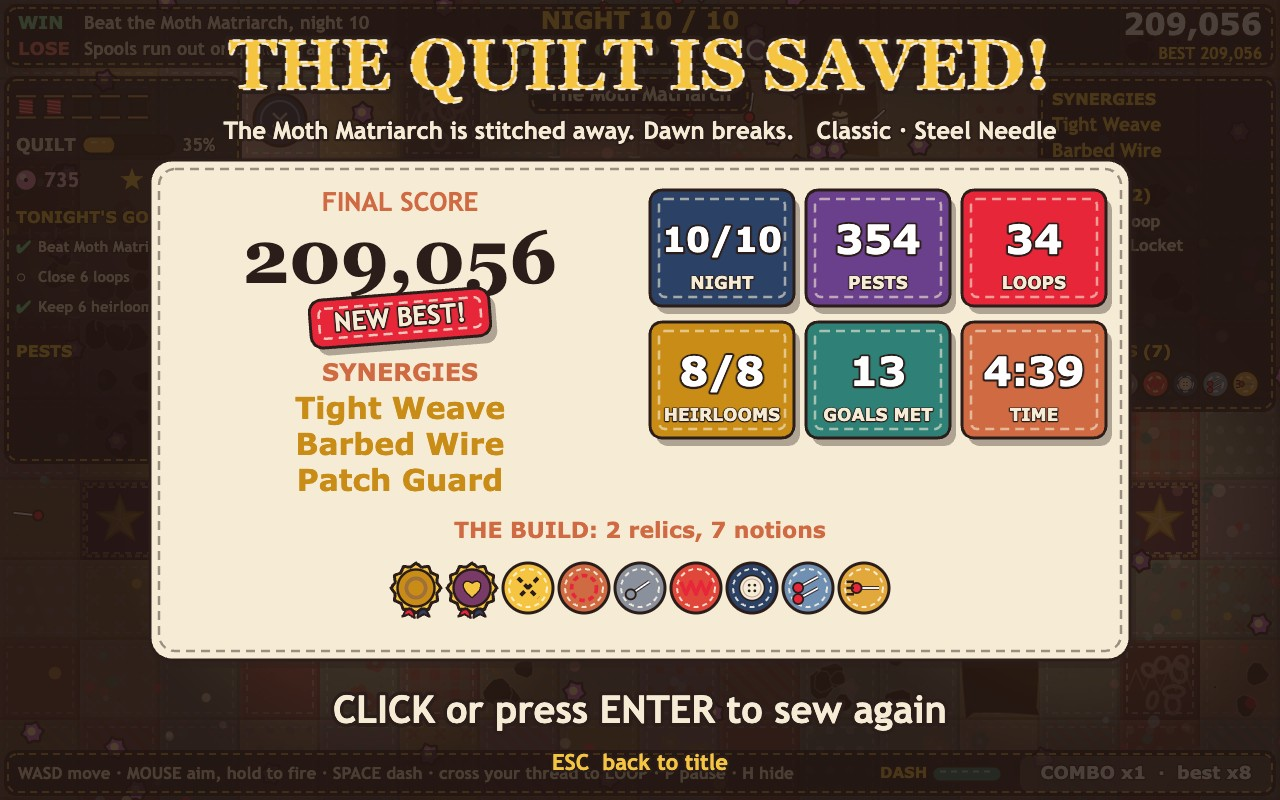
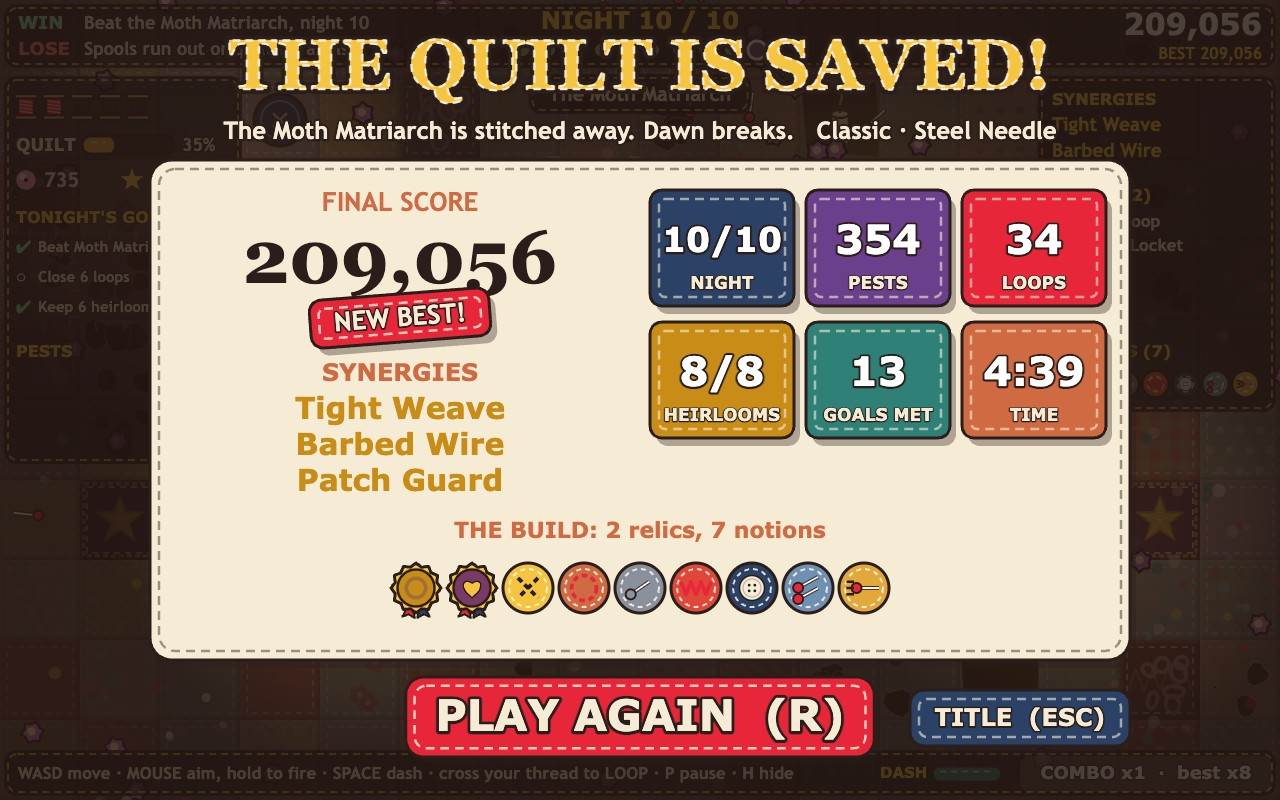
Screenshots: cover, title, quilt road with its last draft, win card with PLAY AGAIN (R); R restarts from the results card; draft shot moved to screenshots-archive

Changed region(s): [[0.25, 0.8438, 0.9062, 0.9688]]

diff --git a/game/ui/road-screen.js b/game/ui/road-screen.js
@@ -1,11 +1,12 @@
 // The quilt road between nights: a map of patches joined by stitched paths. The patches you can
 // step to next pulse; the path you took is sewn in red thread. Pick with a click or keys 1-3.
+// The last notion draft sits in the corner, the card taken from it marked.
 import { FONT, PALETTE, VIEW } from '../core/config.js';
 import { modifierById } from '../world/modifiers.js';
 import { NODE_TYPES, roadLinks } from '../run/route-map.js';
 import { relicById } from '../items/relics.js';
 import { drawNeedleShape } from '../render/sprites.js';
-import { drawNodeIcon, drawRelicIcon, drawSequin } from '../render/icons.js';
+import { drawChoiceIcon, drawNodeIcon, drawRelicIcon, drawSequin } from '../render/icons.js';
 import { needleById } from '../meta/needles.js';
 import { dimScreen, drawFeltPanel, drawSpool, drawText } from './widgets.js';
 
@@ -34,7 +35,8 @@ export function visibleNodes(run) {
 export function drawRoad(ctx, run, view) {
   const { time, reachable, hover } = view;
   dimScreen(ctx, VIEW.width, VIEW.height, 0.45);
-  drawText(ctx, 'STITCHBOUND', 150, 42, { size: 34, color: PALETTE.cream, font: FONT.display, outline: 6, stitch: PALETTE.thread });
+  if (run.lastDraft) drawLastDraft(ctx, run.lastDraft);
+  else drawText(ctx, 'STITCHBOUND', 150, 42, { size: 34, color: PALETTE.cream, font: FONT.display, outline: 6, stitch: PALETTE.thread });
   drawText(ctx, 'THE QUILT ROAD', VIEW.width / 2, 52, { size: 52, color: PALETTE.gold, font: FONT.plain, outline: 8 });
   drawText(ctx, `Seed ${run.seed}  ·  click a glowing patch, or press 1, 2, 3`, VIEW.width / 2, 100, { size: 20, color: PALETTE.cream, outline: 4 });
   drawKitStrip(ctx, run);
@@ -101,6 +103,38 @@ export function drawRoad(ctx, run, view) {
   }
   drawNodeInfo(ctx, hover ?? reachable[0]);
   drawLegend(ctx, time, taken.length);
+}
+
+/** The last notion draft as three small cards, the one taken lifted and marked in gold. */
+function drawLastDraft(ctx, draft) {
+  drawFeltPanel(ctx, 12, 8, 360, 156, '#2b1f33', 'rgba(246,236,214,0.5)', 14);
+  drawText(ctx, `NIGHT ${draft.depth} DRAFT`, 192, 30, { size: 17, color: PALETTE.gold, outline: 0, font: FONT.plain });
+  const w = 104;
+  draft.choices.slice(0, 3).forEach((choice, i) => {
+    const x = 26 + i * (w + 10);
+    const taken = i === draft.picked;
+    const y = 48;
+    drawFeltPanel(ctx, x, y, w, 104, taken ? '#fff6e2' : 'rgba(239,224,192,0.7)', taken ? PALETTE.gold : choice.color, 10);
+    ctx.globalAlpha = taken ? 1 : 0.6;
+    drawChoiceIcon(ctx, choice, x + w / 2, y + 40, 52);
+    let size = 15;
+    ctx.font = `bold ${size}px ${FONT.plain}`;
+    const width = ctx.measureText(choice.name).width;
+    if (width > w - 8) size = Math.max(10, Math.floor((size * (w - 8)) / width));
+    drawText(ctx, choice.name, x + w / 2, y + 86, { size, color: PALETTE.ink, outline: 0, font: FONT.plain });
+    ctx.globalAlpha = 1;
+    if (taken) {
+      ctx.strokeStyle = PALETTE.gold;
+      ctx.lineWidth = 4;
+      ctx.strokeRect(x - 3, y - 3, w + 6, 110);
+      ctx.fillStyle = PALETTE.thread;
+      ctx.strokeStyle = PALETTE.ink;
+      ctx.lineWidth = 2;
+      ctx.fillRect(x + w - 50, y - 13, 60, 24);
+      ctx.strokeRect(x + w - 50, y - 13, 60, 24);
+      drawText(ctx, 'TAKEN', x + w - 20, y - 1, { size: 13, color: PALETTE.cream, outline: 0, font: FONT.plain });
+    }
+  });
 }
 
 function drawKitStrip(ctx, run) {

diff --git a/game/ui/results-screen.js b/game/ui/results-screen.js
@@ -1,6 +1,6 @@
 // The card that ends every run, win or lose: the headline, the final score, the run's numbers,
-// its build (relics, notions and the synergies they formed), any needle it unlocked, and how to
-// sew again.
+// its build (relics, notions and the synergies they formed), any needle it unlocked, and the
+// PLAY AGAIN (R) and TITLE (Esc) buttons.
 import { FONT, PALETTE, VIEW } from '../core/config.js';
 import { notionById } from '../items/notions.js';
 import { relicById } from '../items/relics.js';
@@ -13,7 +13,7 @@ const HEADLINES = {
   quilt: ['THE QUILT UNRAVELLED', 'The moths ate too much of the heirloom.', PALETTE.danger],
 };
 
-export function drawResults(ctx, summary, time) {
+export function drawResults(ctx, summary, time, hover = null) {
   dimScreen(ctx, VIEW.width, VIEW.height, 0.82);
   const [title, line, color] = HEADLINES[summary.outcome];
   drawText(ctx, title, VIEW.width / 2, 70, { size: 70, color, font: FONT.display, outline: 10, stitch: PALETTE.cream });
@@ -63,9 +63,27 @@ export function drawResults(ctx, summary, time) {
     drawFeltPanel(ctx, px + 190, py + 462, 600, 44, '#2b1f33', PALETTE.gold, 12);
     drawText(ctx, `UNLOCKED: ${summary.unlocked.join(', ')}!`, VIEW.width / 2, py + 485, { size: 22, color: PALETTE.gold, outline: 3 });
   }
-  const pulse = 0.85 + 0.15 * Math.sin(time * 5);
-  ctx.globalAlpha = pulse;
-  drawText(ctx, 'CLICK or press ENTER to sew again', VIEW.width / 2, 712, { size: 38, color: PALETTE.cream, outline: 8 });
-  ctx.globalAlpha = 1;
-  drawText(ctx, 'ESC  back to title', VIEW.width / 2, 764, { size: 22, color: PALETTE.gold, outline: 5 });
+  drawRestart(ctx, time, hover);
+}
+
+/** Where the results card's buttons sit. */
+export function resultsLayout() {
+  return {
+    again: { x: 400, y: 676, w: 480, h: 82 },
+    title: { x: 910, y: 690, w: 220, h: 56 },
+  };
+}
+
+/** The restart: one big PLAY AGAIN button, and a smaller way back to the title. */
+function drawRestart(ctx, time, hover) {
+  const { again, title } = resultsLayout();
+  const pulse = 1 + Math.sin(time * 4) * 0.025;
+  ctx.save();
+  ctx.translate(again.x + again.w / 2, again.y + again.h / 2);
+  ctx.scale(pulse, pulse);
+  drawFeltPanel(ctx, -again.w / 2, -again.h / 2, again.w, again.h, hover === 'again' ? PALETTE.terracotta : PALETTE.thread, 'rgba(246,236,214,0.85)', 18);
+  drawText(ctx, 'PLAY AGAIN  (R)', 0, 2, { size: 44, color: PALETTE.cream, outline: 7, font: FONT.plain });
+  ctx.restore();
+  drawFeltPanel(ctx, title.x, title.y, title.w, title.h, hover === 'title' ? PALETTE.thread : PALETTE.navy, 'rgba(246,236,214,0.6)', 14);
+  drawText(ctx, 'TITLE  (ESC)', title.x + title.w / 2, title.y + title.h / 2 + 1, { size: 24, color: PALETTE.cream, outline: 4, font: FONT.plain });
 }

diff --git a/game/main.js b/game/main.js
@@ -20,7 +20,7 @@ import { drawRoad, nodeRect, visibleNodes } from './ui/road-screen.js';
 import { cardRects, drawCards } from './ui/cards-screen.js';
 import { drawShop, shopLayout } from './ui/shop-screen.js';
 import { drawEvent, eventLayout } from './ui/event-screen.js';
-import { drawResults } from './ui/results-screen.js';
+import { drawResults, resultsLayout } from './ui/results-screen.js';
 import { drawPause } from './ui/pause-screen.js';
 import { CODEX_BACK, drawCodex } from './ui/codex-screen.js';
 import { createPilot, pilotChooseCard, pilotChooseNode, pilotChooseOption, pilotChooseWare, pilotIntent } from './demo/autopilot.js';
@@ -145,7 +145,7 @@ function finishRun() {
   state.summary = summarizeRun(run, previous, unlocked);
   setScreen('over');
   if (run.outcome === 'win') audio.play('win');
-  announce(`Run over. Score ${run.score}. Press Enter to sew again.`);
+  announce(`Run over. Score ${run.score}. Press R or Enter to play again.`);
 }
 
 function playerIntent(run) {
@@ -252,10 +252,13 @@ function handleMenus() {
       if (pick >= 0 && !chooseEventOption(run, event, pick)) audio.play('deny');
       break;
     }
-    case 'over':
-      if (input.anyPressed('Escape')) goToTitle();
-      else if ((confirm || m.clicked) && state.endTimer > 0.6) startRun();
+    case 'over': {
+      const layout = resultsLayout();
+      state.hover = inRect(m.x, m.y, layout.again) ? 'again' : inRect(m.x, m.y, layout.title) ? 'title' : null;
+      if (input.anyPressed('Escape') || (m.clicked && state.hover === 'title')) goToTitle();
+      else if ((confirm || input.anyPressed('KeyR') || m.clicked) && state.endTimer > 0.6) startRun();
       break;
+    }
     default:
       break;
   }
@@ -353,7 +356,7 @@ function render() {
       drawEvent(ctx, run, run.event, state.hover, t);
       break;
     case 'over':
-      drawResults(ctx, state.summary, t);
+      drawResults(ctx, state.summary, t, state.hover);
       break;
     default:
       if (!panels) drawHud(ctx, run, bestForMode(), t);

diff --git a/game/run/run.js b/game/run/run.js
@@ -152,6 +152,8 @@ export function takeOffer(run, index) {
   const choice = offer.choices[index];
   if (!choice) return 'cards';
   if (offer.kind === 'notion') {
+    // Kept for the road map, which shows the last draft and the card taken from it.
+    run.lastDraft = { depth: run.depth, choices: offer.choices, picked: index };
     takeNotion(run, choice.id);
     if (run.night && (run.night.elite || run.night.boss) && offerRelics(run, run.night.boss ? 'THE BOSS FALLS' : 'ELITE SPOILS', 'Choose a relic')) return 'cards';
   } else if (offer.kind === 'relic') gainRelic(run, choice.id);
